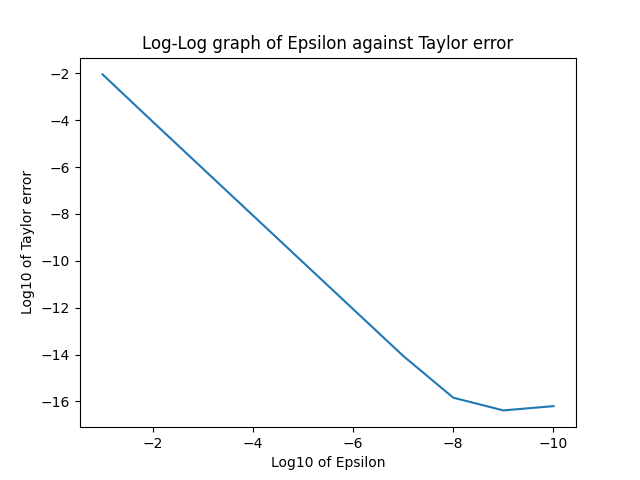
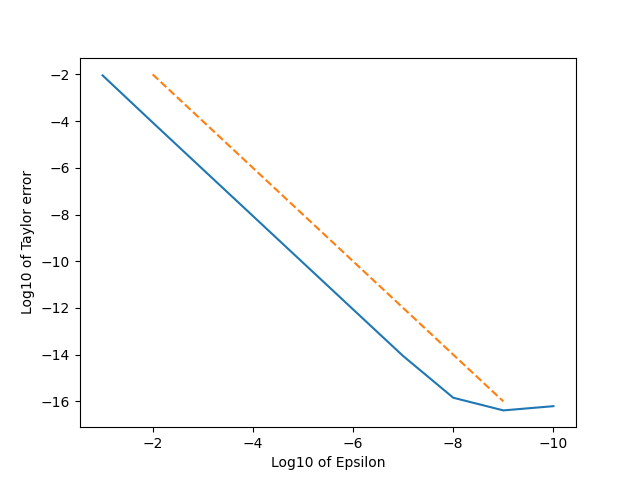
fixed bug under taylor error

diff --git a/demonstration/taylor_error.py b/demonstration/taylor_error.py
@@ -8,14 +8,20 @@ import rmad.expressions as expressions
 def taylor_error(expr, condition, eps, **kwargs):
     condition_new = dict(condition)
     evalpostvisitor(expr, symbol_map=condition)
-    Jx = np.array(list(expr.storedvalue))
-    n = len(Jx)
+    Jx = expr.storedvalue
+    if isinstance(Jx, np.ndarray):
+        n = len(Jx)
+    else:
+        n = 1
+    Jx = np.array(Jx)
     vec = np.random.rand(n)
+    vec = vec/np.linalg.norm(vec)
     condition_new[kwargs['var']] = condition_new[kwargs['var']] + (eps * vec)
     evalpostvisitor(expr, symbol_map=condition_new)
-    Jdeltax = np.array(list(expr.storedvalue))
-    dJx = np.array(list(reversemodeAD(expr, condition)[kwargs['var']]))
+    Jdeltax = np.array(expr.storedvalue)
+    dJx = np.array(reversemodeAD(expr, condition)[kwargs['var']])
     # Using taylor series expansion find O(eps^2)
+    print(Jdeltax - Jx)
     return np.abs(Jdeltax - Jx - dJx*eps)
 
 
@@ -24,9 +30,9 @@ def taylor_error_plot(expr, condition, eps, **kwargs):
     for e in eps:
         result.append(taylor_error(expr, condition, e, **kwargs))
     fig = plt.figure()
-    plt.plot(np.log10(np.array(eps)), np.log10(abs(np.array(result))))
+    plt.plot(np.log10(np.array(eps)), np.log10(abs(np.array(result))), label='Taylor error')
     plt.gca().invert_xaxis()
-    plt.plot([-1, -10], [-2, -20])
+    plt.plot([-2, -9], [-2, -16], linestyle='dashed', label=f'$O(\epsilon^2)$')
     plt.xlabel("Log10 of Epsilon")
     plt.ylabel("Log10 of Taylor error")
     return fig
@@ -43,9 +49,7 @@ def convergence_table(expr, condition, eps, **kwargs):
     points = [f"{i+1}-{i+2}" for i in range(len(eps)-1)]
     d = dict(zip(points, grads))
     f = open("images\\rate_of_convergence.txt", 'w')
-    for point, grad in d.items():
-        f.write("{:<8} {:<15}".format(point, grad))
-        f.write("\n")
+    return d
 
 
 x = expressions.Symbol('x')

diff --git a/demonstration/demonstrations.py b/demonstration/demonstrations.py
@@ -201,6 +201,7 @@ def taylor_error_example():
     try:
         fig.savefig('images\\taylor_error_1.pdf', bbox_inches='tight',
                     pad_inches=0)
+        fig.savefig('images\\taylor_error_1.png')
     except FileNotFoundError:
         raise FileNotFoundError(
             "Taylor_Error_Example: Could not save figure: \
@@ -380,6 +381,8 @@ def pde1():
 def plotpde():
     over_time_plot(size=np.pi, numpoints=100, endtime=1.5, dt=0.01, V=10, D=5)
 
+
+taylor_error_example()
 
 # plotpde()
 
